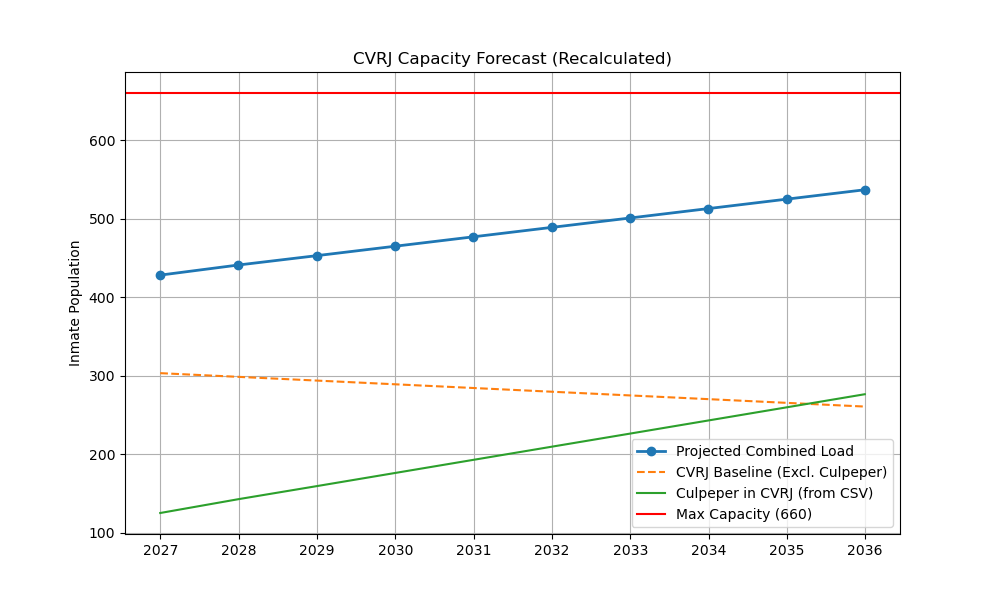
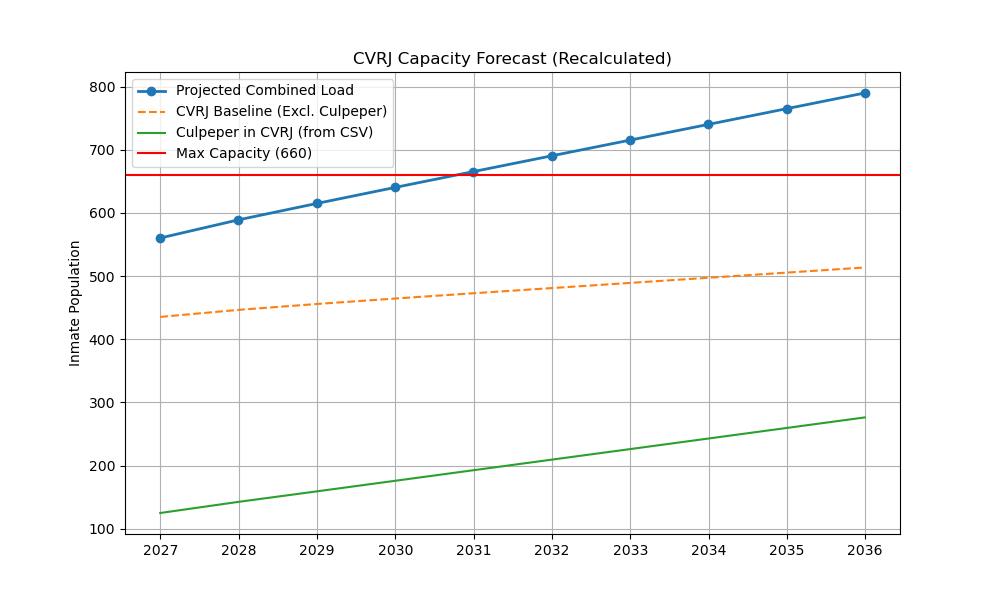
recent changes

diff --git a/scripts/07_capacity_forecast_visualization.py b/scripts/07_capacity_forecast_visualization.py
@@ -58,8 +58,8 @@ def build_combined_historical(annual_cvrj_adp, annual_culpeper_in_cvrj):
 
 def plot_capacity(ax, annual_cvrj_adp, years_future, cvrj_forecast_vals, combined_forecast,
                   annual_culpeper_in_cvrj, culpeper_forecast_vals, combined_se=None,
-                  draw_forecast_marker=True, show_legend=True):
-    """Draw capacity plot: CVRJ baseline full; Culpeper-only full; CVRJ+Culpeper only on forecast side."""
+                  annual_cvrj_excl47_for_combined=None, draw_forecast_marker=True, show_legend=True):
+    """Draw capacity plot: CVRJ (blue, incl. 47); Culpeper all jails (green); Combined = CVRJ excl. 47 + Culpeper (orange)."""
     # Trim historical portion to start at 2016
     hist_years_full = annual_cvrj_adp.index
     cutoff = pd.Timestamp('2015-12-31')
@@ -71,35 +71,44 @@ def plot_capacity(ax, annual_cvrj_adp, years_future, cvrj_forecast_vals, combine
     all_years = list(hist_years) + list(years_future)
     x_forecast = pd.Timestamp(f'{FORECAST_START_YEAR}-01-01')
 
-    # CVRJ baseline: entire plot
+    # CVRJ baseline (incl. County 47): entire plot
     all_vals_cvrj = np.concatenate([annual_cvrj_adp.values, cvrj_forecast_vals])
     ax.plot(all_years, all_vals_cvrj, 'o-', color='steelblue', markersize=5, linewidth=1.5,
-            label='CVRJ baseline (excl. Culpeper)')
+            label='CVRJ (incl. County 47)')
 
-    # Culpeper only: entire plot (historical from CSV + forecast)
-    if annual_culpeper_in_cvrj is not None and not annual_culpeper_in_cvrj.empty and culpeper_forecast_vals is not None:
+    # Culpeper only: historical total ADP (all jails) + optional forecast
+    if annual_culpeper_in_cvrj is not None and not annual_culpeper_in_cvrj.empty:
         # Align historical Culpeper to hist_years (fill missing with NaN or 0)
         culp_hist_vals = np.array([
             annual_culpeper_in_cvrj.loc[t] if t in annual_culpeper_in_cvrj.index else np.nan
             for t in hist_years
         ])
         culp_hist_vals = np.nan_to_num(culp_hist_vals, nan=0.0)
-        all_vals_culp = np.concatenate([culp_hist_vals, culpeper_forecast_vals])
-        ax.plot(all_years, all_vals_culp, '^-', color='green', markersize=4, linewidth=1.2,
-                label='Culpeper (in CVRJ)')
+        if culpeper_forecast_vals is not None:
+            all_vals_culp = np.concatenate([culp_hist_vals, culpeper_forecast_vals])
+            y_vals_culp = all_vals_culp
+            x_vals_culp = all_years
+        else:
+            # Historical only
+            y_vals_culp = culp_hist_vals
+            x_vals_culp = hist_years
+        ax.plot(x_vals_culp, y_vals_culp, '^-', color='green', markersize=4, linewidth=1.2,
+                label='Culpeper (all jails, historical ADP)')
 
     # Ensure orange line starts exactly at forecast start year (branching from combined historical)
     start_date = pd.Timestamp(f'{FORECAST_START_YEAR}-01-01')
 
     last_hist_year = hist_years[-1]
     last_hist_cvrj = annual_cvrj_adp.loc[last_hist_year]
-    
     if annual_culpeper_in_cvrj is not None and not annual_culpeper_in_cvrj.empty and last_hist_year in annual_culpeper_in_cvrj.index:
         last_hist_culp = annual_culpeper_in_cvrj.loc[last_hist_year]
     else:
         last_hist_culp = 0.0
-        
-    last_hist_combined = last_hist_cvrj + last_hist_culp
+    # Orange anchor = (CVRJ excl. 47 at 2025) + (Culpeper all jails at 2025) when available
+    if annual_cvrj_excl47_for_combined is not None and not annual_cvrj_excl47_for_combined.empty and last_hist_year in annual_cvrj_excl47_for_combined.index:
+        last_hist_combined = annual_cvrj_excl47_for_combined.loc[last_hist_year] + last_hist_culp
+    else:
+        last_hist_combined = last_hist_cvrj + last_hist_culp
 
     years_future_trim = years_future[years_future >= start_date]
     combined_trim = combined_forecast[years_future >= start_date]
@@ -177,18 +186,18 @@ def plot_capacity(ax, annual_cvrj_adp, years_future, cvrj_forecast_vals, combine
             color='darkorange', fontsize=FONT_ANNO, fontweight='bold', 
             ha='right', va='bottom')
             
-    # 2. Blue CVRJ Baseline (Above)
+    # 2. Blue CVRJ Baseline (below the blue line, right/forecast side)
     last_val_cvrj = cvrj_forecast_vals[-1]
-    ax.text(last_year_forecast - pd.DateOffset(months=3), last_val_cvrj + 35, 
+    ax.text(last_year_forecast - pd.DateOffset(months=3), last_val_cvrj - 55, 
             'CVRJ Baseline', 
             color='steelblue', fontsize=FONT_ANNO, fontweight='bold', 
-            ha='right', va='bottom')
+            ha='right', va='top')
             
-    # 3. Green Culpeper-in-CVRJ (Below)
-    if culpeper_forecast_vals is not None:
-        last_val_culp = culpeper_forecast_vals[-1]
-        ax.text(last_year_forecast - pd.DateOffset(months=2), last_val_culp - 75, 
-                'Culpeper-in-CVRJ', 
+    # 3. Green Culpeper (all jails) — right side in forecast section
+    if annual_culpeper_in_cvrj is not None and not annual_culpeper_in_cvrj.empty:
+        y_culp = culpeper_forecast_vals[-1] if culpeper_forecast_vals is not None else annual_culpeper_in_cvrj.iloc[-1]
+        ax.text(last_year_forecast - pd.DateOffset(months=3), y_culp - 55, 
+                'Culpeper (all jails)', 
                 color='green', fontsize=FONT_ANNO, fontweight='bold', 
                 ha='right', va='top')
                 
@@ -203,25 +212,46 @@ def plot_capacity(ax, annual_cvrj_adp, years_future, cvrj_forecast_vals, combine
 
 
 def main():
-    annual_cvrj_adp, res_df, annual_culpeper_in_cvrj = load_forecast_data()
+    annual_cvrj_adp, res_df, _ = load_forecast_data()
     if annual_cvrj_adp is None or res_df is None:
         print("Run run_forecast.py first to generate forecast_annual_cvrj_adp.csv and forecast_results.csv")
         print("Then run this script again to create the capacity visualization.")
         return
-    if annual_culpeper_in_cvrj is None or annual_culpeper_in_cvrj.empty:
-        print("Warning: forecast_annual_culpeper_in_cvrj.csv not found; combined line = CVRJ only (re-run run_forecast.py).")
+
+    # Load historical + forecast ADP for inmates held for Culpeper County (any jail), 2014–2035.
+    culpeper_forecast_path = os.path.join(_ROOT, "data", "outputs", "culpeper_total_adp_forecast.csv")
+    if os.path.exists(culpeper_forecast_path):
+        annual_culpeper_total_adp = pd.read_csv(culpeper_forecast_path, index_col=0, parse_dates=True).squeeze()
+    else:
+        annual_culpeper_total_adp = pd.Series(dtype=float)
+    # CVRJ excl. 47 (for orange-line anchor and combined = this + Culpeper all jails).
+    cvrj_excl47_path = os.path.join(_ROOT, "data", "outputs", "forecast_annual_cvrj_excl47.csv")
+    annual_cvrj_excl47 = None
+    if os.path.exists(cvrj_excl47_path):
+        annual_cvrj_excl47 = pd.read_csv(cvrj_excl47_path, index_col=0, parse_dates=True).squeeze()
+        annual_cvrj_excl47 = annual_cvrj_excl47[annual_cvrj_excl47.index <= pd.Timestamp('2025-12-31')]
 
     years_future = res_df.index
+    # Blue line: CVRJ incl. County 47 (from CSV)
     cvrj_forecast_vals = res_df['CVRJ_Baseline_NoCulpeper'].values
-    combined_forecast = res_df['Combined_Load'].values
-    combined_se = res_df['Combined_SE'].values if 'Combined_SE' in res_df.columns else None
-    culpeper_forecast_vals = res_df['Culpeper_In_CVRJ'].values if 'Culpeper_In_CVRJ' in res_df.columns else None
+    # Combined (orange) = CVRJ excl. 47 + Culpeper all jails (2014-2025 + forecast from culpeper_total_adp_forecast.csv).
+    culpeper_hist = annual_culpeper_total_adp[annual_culpeper_total_adp.index <= pd.Timestamp('2025-12-31')]
+    culpeper_future = annual_culpeper_total_adp.reindex(years_future).ffill()
+    annual_culpeper_total_adp = culpeper_hist
+    culpeper_forecast_vals = culpeper_future.values
+    if 'CVRJ_Excl47_Forecast' in res_df.columns:
+        combined_forecast = res_df['CVRJ_Excl47_Forecast'].values + culpeper_forecast_vals
+        combined_se = res_df['CVRJ_Excl47_SE'].values if 'CVRJ_Excl47_SE' in res_df.columns else None
+    else:
+        combined_forecast = cvrj_forecast_vals + culpeper_forecast_vals
+        combined_se = res_df['CVRJ_SE'].values if 'CVRJ_SE' in res_df.columns else None
 
     # --- Figure 1: Capacity with vs without Culpeper + 660 line (main visual, no title/legend) ---
     fig, ax = plt.subplots(figsize=(12, 6))
     plot_capacity(ax, annual_cvrj_adp, years_future, cvrj_forecast_vals, combined_forecast,
-                  annual_culpeper_in_cvrj, culpeper_forecast_vals,
-                  combined_se=combined_se, draw_forecast_marker=True, show_legend=False)
+                  annual_culpeper_total_adp, culpeper_forecast_vals,
+                  combined_se=combined_se, annual_cvrj_excl47_for_combined=annual_cvrj_excl47,
+                  draw_forecast_marker=True, show_legend=False)
     plt.tight_layout()
     out1 = os.path.join(_ROOT, 'visuals', 'capacity_forecast_with_and_without_culpeper.png')
     plt.savefig(out1, dpi=150, bbox_inches='tight')
@@ -231,18 +261,19 @@ def main():
     # --- Figure 2: Same plot + methodology text ---
     fig2, ax2 = plt.subplots(figsize=(12, 7))
     plot_capacity(ax2, annual_cvrj_adp, years_future, cvrj_forecast_vals, combined_forecast,
-                  annual_culpeper_in_cvrj, culpeper_forecast_vals, combined_se=combined_se, draw_forecast_marker=True)
+                  annual_culpeper_total_adp, culpeper_forecast_vals, combined_se=combined_se,
+                  annual_cvrj_excl47_for_combined=annual_cvrj_excl47, draw_forecast_marker=True)
     ax2.set_title('CVRJ Bed Need: With vs Without Culpeper County', fontsize=FONT_TITLE)
 
     methodology = (
         "How the forecasts are created:\n\n"
         "1. Historical ADP: From cvrj_dataset_v2.csv (Book/Release dates). Daily census =\n"
         "   cumsum of +1 on book, -1 day after release; annual ADP = mean per year.\n"
-        "   CVRJ baseline excludes County 47. Culpeper-in-CVRJ = County 47 only (realistic\n"
-        "   add-on; not 'any jail' total, which includes RSW and Culpeper Jail).\n\n"
+        "   CVRJ baseline excludes County 47. The green line shows total Culpeper County ADP\n"
+        "   (all jails) from CORIS, 2014–2025.\n\n"
         "2. Forecast: SARIMAX(ADP, exog=Population), order (1,1,1). CVRJ uses 5-county\n"
-        "   population; Culpeper-in-CVRJ uses Culpeper county population.\n\n"
-        "3. Combined load: CVRJ baseline + Culpeper-in-CVRJ (from CSV). If combined > 660,\n"
+        "   population; Culpeper forecasts (when used) are based on Culpeper county population.\n\n"
+        "3. Combined load: CVRJ (excl. 47) + Culpeper all jails (2014-2025 + forecast). If combined > 660,\n"
         "   CVRJ would be over capacity if Culpeper joins."
     )
     ax2.text(0.98, 0.98, methodology, transform=ax2.transAxes, fontsize=8,
@@ -253,7 +284,7 @@ def main():
     print(f"Saved: {out2}")
     plt.close()
 
-    print("\nDone. Red line = 660-bed capacity. Orange = CVRJ + Culpeper-in-CVRJ (from CSV); blue = CVRJ only.")
+    print("\nDone. Red line = 660-bed capacity. Orange = CVRJ (excl. 47) + Culpeper all jails; blue = CVRJ (excl. 47).")
 
 
 if __name__ == "__main__":

diff --git a/scripts/03_run_forecast.py b/scripts/03_run_forecast.py
@@ -7,9 +7,11 @@ from datetime import datetime
 import glob
 import os
 
-# Define paths
-DATA_DIR = "../data/raw"
-CVRJ_FILE = "../data/processed/cvrj_dataset_v2.csv"
+# Define paths (rooted at project, not CWD)
+_SCRIPT_DIR = os.path.dirname(os.path.abspath(__file__))
+_ROOT = os.path.dirname(_SCRIPT_DIR)
+DATA_DIR = os.path.join(_ROOT, "data", "raw")
+CVRJ_FILE = os.path.join(_ROOT, "data", "processed", "cvrj_dataset_v2.csv")
 
 # --- 1. Load and Process CVRJ Data ---
 print("Loading CVRJ Data...")
@@ -21,14 +23,11 @@ df_cvrj['Release Date'] = pd.to_datetime(df_cvrj['Release Date'], errors='coerce
 df_cvrj = df_cvrj[df_cvrj['Book Date'].dt.year >= 2012]
 print(f"Total CVRJ rows: {len(df_cvrj)}")
 
-# EXCLUDE CULPEPER (Code 47) from Baseline
-# "The image with less [Culpeper Jail] shows inmates just in Culpeper... 
-# data set with 'any jail' includes cvrj inmates...
-# So to forecast Total Load = Baseline (No Culpeper) + Total Culpeper (Any Jail)."
-df_cvrj_baseline = df_cvrj[df_cvrj['County Code'] != 47]
-print(f"CVRJ Baseline (No Culpeper) rows: {len(df_cvrj_baseline)}")
+# Blue line: CVRJ from csv INCLUDING County 47 (all counties).
+df_cvrj_baseline = df_cvrj.copy()
+print(f"CVRJ (incl. County 47, for blue line) rows: {len(df_cvrj_baseline)}")
 
-# Calculate Daily Census (ADP) for Baseline (vectorized)
+# Calculate Daily Census (ADP) for CVRJ incl. 47 (vectorized)
 df_b = df_cvrj_baseline.dropna(subset=['Book Date']).copy()
 max_date = df_b['Release Date'].max()
 if pd.isnull(max_date) or max_date.year > 2030:
@@ -81,7 +80,31 @@ else:
 print("Culpeper-in-CVRJ (County 47) Annual ADP (Head):")
 print(annual_culpeper_in_cvrj.head() if not annual_culpeper_in_cvrj.empty else "No data")
 
-# --- 2. Load Population Data (CVRJ Excl Culpeper) ---
+# --- 1c. CVRJ EXCL. 47 (for combined orange line = this + Culpeper all jails) ---
+df_cvrj_excl47 = df_cvrj[df_cvrj['County Code'] != 47]
+df_b_excl = df_cvrj_excl47.dropna(subset=['Book Date']).copy()
+if not df_b_excl.empty:
+    max_date_excl = df_b_excl['Release Date'].max()
+    if pd.isnull(max_date_excl) or max_date_excl.year > 2030:
+        max_date_excl = pd.Timestamp('2025-12-31')
+    min_date_excl = df_b_excl['Book Date'].min()
+    df_b_excl['Release Date'] = df_b_excl['Release Date'].fillna(max_date_excl)
+    df_b_excl['start_d'] = df_b_excl['Book Date'].dt.normalize()
+    df_b_excl['end_d'] = df_b_excl['Release Date'].dt.normalize() + pd.Timedelta(days=1)
+    df_b_excl = df_b_excl[df_b_excl['end_d'] > df_b_excl['start_d']]
+    enter_excl = df_b_excl[['start_d']].rename(columns={'start_d': 'Date'})
+    enter_excl['Change'] = 1
+    leave_excl = df_b_excl[['end_d']].rename(columns={'end_d': 'Date'})
+    leave_excl['Change'] = -1
+    evt_excl = pd.concat([enter_excl, leave_excl], ignore_index=True)
+    date_range_excl = pd.date_range(start=min_date_excl.normalize(), end=max_date_excl.normalize(), freq='D')
+    evt_excl = evt_excl.groupby('Date')['Change'].sum().sort_index()
+    daily_census_excl = evt_excl.reindex(date_range_excl, fill_value=0).cumsum()
+    annual_cvrj_excl47 = daily_census_excl.resample('Y').mean()
+else:
+    annual_cvrj_excl47 = pd.Series(dtype=float)
+
+# --- 2. Load Population Data (5 counties, excl. Culpeper) ---
 print("\nLoading Population Data...")
 counties = ['Fluvanna', 'Greene', 'Louisa', 'Madison', 'Orange']
 pop_data = {}
@@ -154,6 +177,13 @@ if not total_cvrj_pop.empty:
     
 cvrj_forecast, cvrj_fut_pop, cvrj_se = fit_forecast(annual_cvrj_adp, total_cvrj_pop, "CVRJ_Baseline")
 
+# CVRJ excl. 47 forecast (for combined orange line = this + Culpeper all jails)
+cvrj_excl47_forecast, cvrj_excl47_se = None, None
+if not annual_cvrj_excl47.empty and not total_cvrj_pop.empty:
+    out_excl = fit_forecast(annual_cvrj_excl47, total_cvrj_pop, "CVRJ_Excl47")
+    if out_excl and len(out_excl) >= 3 and out_excl[0] is not None:
+        cvrj_excl47_forecast, cvrj_excl47_se = out_excl[0], out_excl[2]
+
 # Run Culpeper-in-CVRJ Model (County 47 from CSV — realistic CVRJ add-on)
 if not culp_pop.empty:
     last_c_pop = culp_pop.iloc[-1]
@@ -169,10 +199,16 @@ if not annual_culpeper_in_cvrj.empty and not culp_pop.empty:
     if len(culp_clean) >= 3:
         culpeper_in_cvrj_forecast, culp_fut_pop, culpeper_se = fit_forecast(culp_clean, culp_pop, "Culpeper_In_CVRJ")
 
+# Ensure outputs directory exists
+OUTPUT_DIR = os.path.join(_ROOT, "data", "outputs")
+os.makedirs(OUTPUT_DIR, exist_ok=True)
+
 # Save historical ADP series for capacity visualization (even if forecast fails)
-annual_cvrj_adp.to_csv('../data/outputs/forecast_annual_cvrj_adp.csv', header=['ADP'])
+annual_cvrj_adp.to_csv(os.path.join(OUTPUT_DIR, 'forecast_annual_cvrj_adp.csv'), header=['ADP'])
+if not annual_cvrj_excl47.empty:
+    annual_cvrj_excl47.to_csv(os.path.join(OUTPUT_DIR, 'forecast_annual_cvrj_excl47.csv'), header=['ADP'])
 if not annual_culpeper_in_cvrj.empty:
-    annual_culpeper_in_cvrj.to_csv('../data/outputs/forecast_annual_culpeper_in_cvrj.csv', header=['ADP'])
+    annual_culpeper_in_cvrj.to_csv(os.path.join(OUTPUT_DIR, 'forecast_annual_culpeper_in_cvrj.csv'), header=['ADP'])
 
 # --- 5. Analysis ---
 if cvrj_forecast is not None and culpeper_in_cvrj_forecast is not None:
@@ -184,17 +220,18 @@ if cvrj_forecast is not None and culpeper_in_cvrj_forecast is not None:
         'Culpeper_In_CVRJ': culpeper_in_cvrj_forecast.values,
         'Culpeper_SE': culpeper_se.values if culpeper_se is not None else 0
     }, index=years_future)
-    
-    # Combined Load = CVRJ (No 47) + Culpeper inmates actually in CVRJ (County 47 from CSV)
+    if cvrj_excl47_forecast is not None and cvrj_excl47_se is not None:
+        res_df['CVRJ_Excl47_Forecast'] = cvrj_excl47_forecast.values
+        res_df['CVRJ_Excl47_SE'] = cvrj_excl47_se.values
+    # Combined Load (for reference; viz uses CVRJ_Excl47 + Culpeper all jails)
     res_df['Combined_Load'] = res_df['CVRJ_Baseline_NoCulpeper'] + res_df['Culpeper_In_CVRJ']
-    # Combined SE (assuming independent errors) = sqrt(SE1^2 + SE2^2)
     res_df['Combined_SE'] = np.sqrt(res_df['CVRJ_SE']**2 + res_df['Culpeper_SE']**2)
     res_df['Capacity'] = 660
     res_df['Over_Capacity'] = res_df['Combined_Load'] > 660
     
     print(res_df[['Combined_Load', 'Combined_SE']])
     
-    res_df.to_csv('../data/outputs/forecast_results.csv')
+    res_df.to_csv(os.path.join(OUTPUT_DIR, 'forecast_results.csv'))
     
     plt.figure(figsize=(10,6))
     plt.plot(res_df.index, res_df['Combined_Load'], label='Projected Combined Load', marker='o', linewidth=2)
@@ -205,5 +242,8 @@ if cvrj_forecast is not None and culpeper_in_cvrj_forecast is not None:
     plt.ylabel('Inmate Population')
     plt.legend()
     plt.grid(True)
-    plt.savefig('../visuals/forecast_plot_revised.png')
-    print("\nPlot saved to ../visuals/forecast_plot_revised.png")
+    visuals_dir = os.path.join(_ROOT, 'visuals')
+    os.makedirs(visuals_dir, exist_ok=True)
+    out_plot = os.path.join(visuals_dir, 'forecast_plot_revised.png')
+    plt.savefig(out_plot)
+    print(f"\nPlot saved to {out_plot}")

diff --git a/scripts/06_visualize_adp_calculation.py b/scripts/06_visualize_adp_calculation.py
@@ -83,6 +83,8 @@ def main():
     daily_census, annual_adp = compute_daily_census_and_adp(df_baseline, 2030)
     print("Computing Culpeper-from-CSV (County Code 47) using same method...")
     daily_culp, annual_adp_culp = compute_daily_census_and_adp(df_culpeper, 2030)
+    print("Computing daily census (all counties incl. County 47) for adp_daily_and_annual figure...")
+    daily_census_all, _ = compute_daily_census_and_adp(df, 2030)
 
     # Hardcoded Culpeper ADP used in run_forecast.py (for comparison)
     culpeper_hardcoded = {
@@ -150,10 +152,10 @@ def main():
     print(f"Saved: {out_path}")
     plt.close()
 
-    # ---- Second figure: Daily census (trimmed 2013–2025) + moving averages ----
+    # ---- Second figure: Daily census (trimmed 2013–2025) + moving averages (all counties incl. 47) ----
     start_cut = pd.Timestamp('2013-01-01')
     end_cut = pd.Timestamp('2025-12-31')  # end before drop-off at 2026
-    full_daily = daily_census.loc[(daily_census.index >= start_cut) & (daily_census.index <= end_cut)]
+    full_daily = daily_census_all.loc[(daily_census_all.index >= start_cut) & (daily_census_all.index <= end_cut)]
 
     fig2, ax = plt.subplots(figsize=(12, 5))
     ax.fill_between(full_daily.index, full_daily.values, alpha=0.3, color='steelblue')
@@ -169,8 +171,8 @@ def main():
 
     ax.set_xlabel('Date', fontsize = 14)
     ax.set_ylabel('Daily census (count)', fontsize = 14)
-    ax.set_title('Daily Census and Moving Average from De-Identified Booking Data', fontsize = 20)
-    ax.legend(loc='upper right', fontsize=11)
+    ax.set_title('Daily Census and Moving Average', fontsize = 20)
+    ax.legend(loc='lower right', fontsize=11)
     ax.set_ylim(0, None)
     ax.grid(True, alpha=0.5)
     #ax.text(0.02, 0.02, 'Recommendation: 365-day MA best for capacity planning (smooth trend).',

diff --git a/scripts/09_generate_combined_projection.py b/scripts/09_generate_combined_projection.py
@@ -4,9 +4,11 @@ from statsmodels.tsa.statespace.sarimax import SARIMAX
 import matplotlib.pyplot as plt
 import os
 
-# Define paths
-DATA_DIR = "../data/raw"
-CVRJ_FILE = "../data/processed/cvrj_dataset_v2.csv"
+# Define paths (rooted at project, not CWD)
+_SCRIPT_DIR = os.path.dirname(os.path.abspath(__file__))
+_ROOT = os.path.dirname(_SCRIPT_DIR)
+DATA_DIR = os.path.join(_ROOT, "data", "raw")
+CVRJ_FILE = os.path.join(_ROOT, "data", "processed", "cvrj_dataset_v2.csv")
 
 def main():
     print("Loading CVRJ Data...")

diff --git a/scripts/08_baseline_daily_projection.py b/scripts/08_baseline_daily_projection.py
@@ -5,9 +5,11 @@ import matplotlib.pyplot as plt
 import os
 import random
 
-# Define paths
-DATA_DIR = "../data/raw"
-CVRJ_FILE = "../data/processed/cvrj_dataset_v2.csv"
+# Define paths (rooted at project, not CWD)
+_SCRIPT_DIR = os.path.dirname(os.path.abspath(__file__))
+_ROOT = os.path.dirname(_SCRIPT_DIR)
+DATA_DIR = os.path.join(_ROOT, "data", "raw")
+CVRJ_FILE = os.path.join(_ROOT, "data", "processed", "cvrj_dataset_v2.csv")
 
 def main():
     print("Loading CVRJ Data...")
